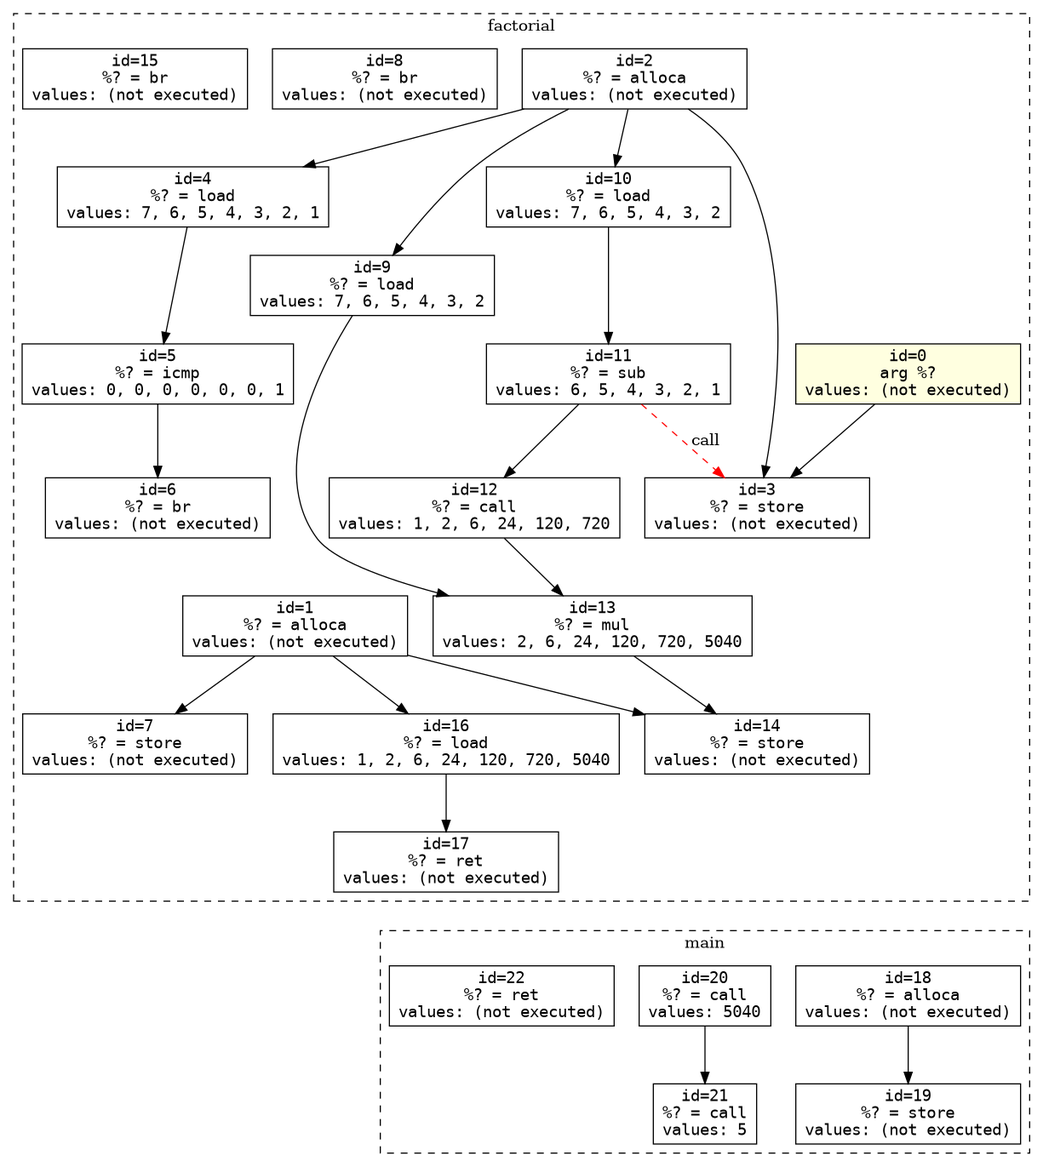
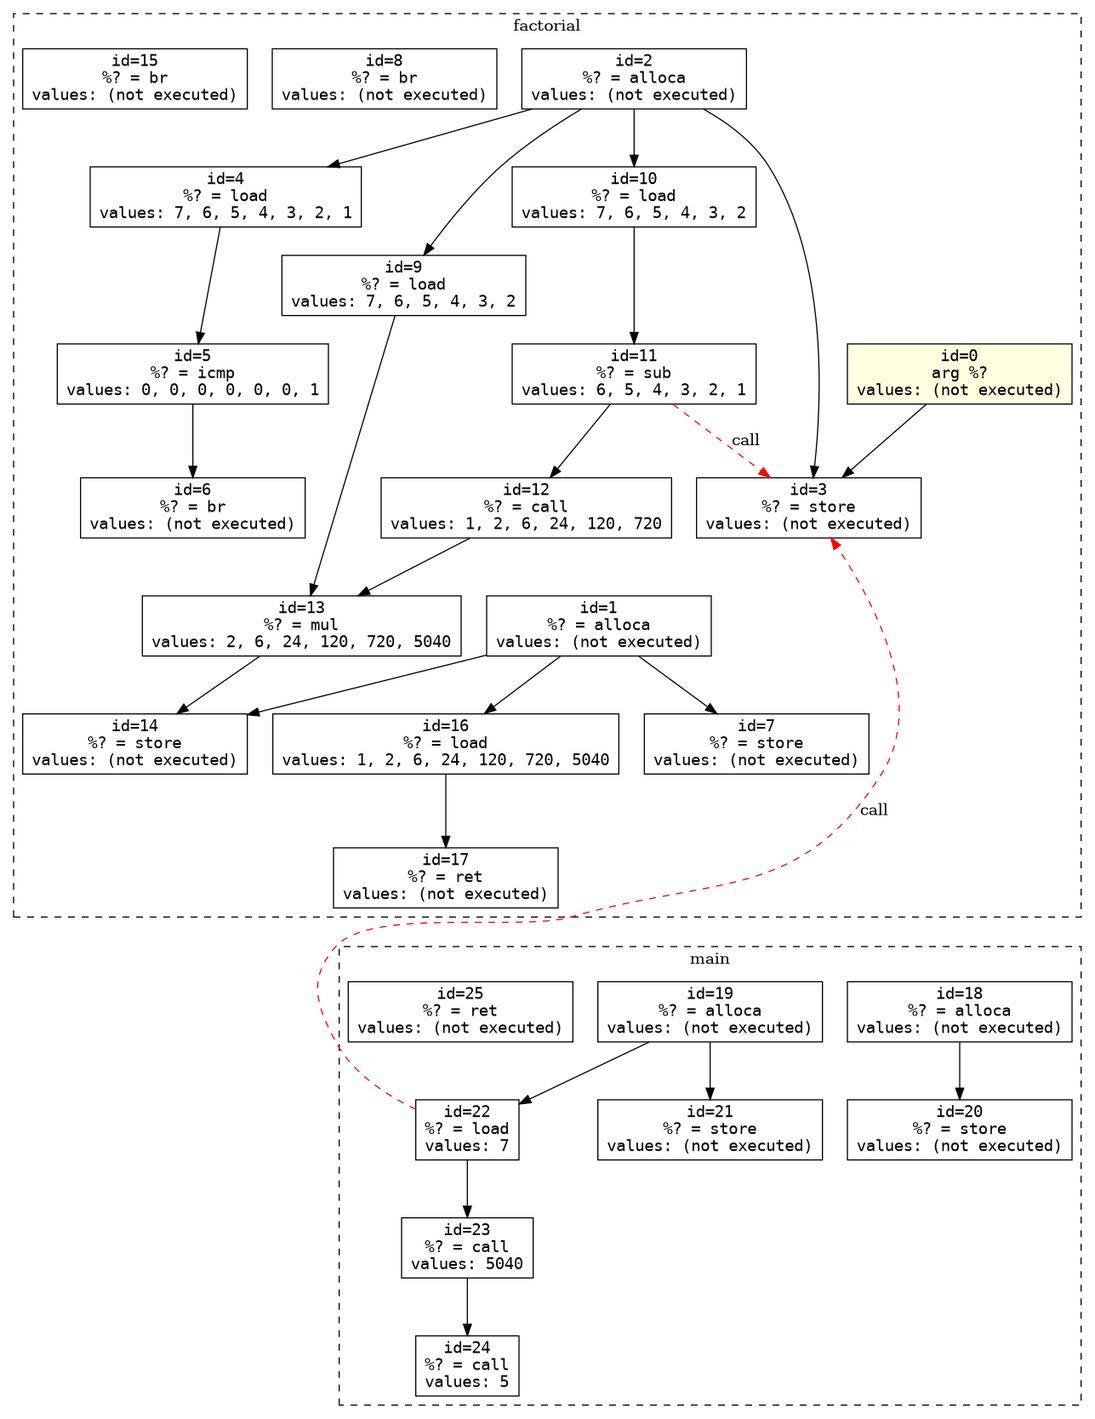
Updated readme + deleted all extra dependencies from Dockerfile

diff --git a/tests/testRecursion.c b/tests/testRecursion.c
@@ -7,6 +7,8 @@ int factorial(int n) {
 }
 
 int main(void) {
-    printf("%d\n", factorial(7));
+    int n = 7;
+    
+    printf("%d\n", factorial(n));
     return 0;
 }

diff --git a/README.md b/README.md
@@ -7,17 +7,13 @@
 
 В зависимости от того, какие данные подаются на вход программе, итоговая картина получается разной -- отражается не только сама структура, но и проход исполнения.
 
-TODO[flops]: Good detailed doc. It will be useful if you add annotated graph image there
-
-FIXME[flops]: Don't forget to add .gitignore for `build/` dir e.t.c.
-
 ## Структура
 
 ## Входная точка
 `src/MyPass.cpp` -- это точка входа LLVM-пасса. В нем: 
 
-- Определён класс `MyPass`, наследник `PassInfoMixin<MyPass>`, с методом `run(Module &M, ModuleAnalysisManager &)` -- именно его вызывает `opt` для каждого модуля.
-- Реализована функция `llvmGetPassPluginInfo()`, которую `opt` находит при загрузке `.so` через `dlsym` и через которую плагин регистрирует имя пасса `my-pass` в `PassBuilder`.
+- Определён класс `MyPass`, наследник `PassInfoMixin<MyPass>`, с методом `run(Module &M, ModuleAnalysisManager &)` -- именно его вызывает `clang` для каждого модуля.
+- Реализована функция `llvmGetPassPluginInfo()`, которую `clang` находит при загрузке `.so` и через которую плагин регистрирует имя пасса `defuse-pass` в `PassBuilder`.
 Сама логика обработки IR вынесена в три модуля: `DotWriter` (запись графа), `Instrumenter` (вставка инструментации), `ValueIds` (выдача id).
 
 ## Что делает пасс верхнеуровнево?
@@ -37,29 +33,40 @@ Module -> Function -> BasicBlock -> Instruction
 - **`Instruction`** -- все инструкции IR (`add`, `load`, `store`, `call`, `mul`, ...). Каждая инструкция в SSA-форме определяет ровно одно значение;
 - **`ConstantInt`** -- константы. Они учитываются в лейблах (если попадаются как операнды), но **узлами в графе не становятся**, чтобы не завалить значениями картинку. Только реально вычисляемые значения получают узлы.
 
+> Отстутствие отображения констант -- вопрос спорный, но если таки не добавлять их в отрисовку defuse graph, то при вызове функции можно явно инициализировать параметры вызываемой функции, тогда и стрелки между caller и callee будут.
+
 Для каждой подходящей инструкции пасс смотрит её операнды (`Instruction.operands()`). Для каждого операнда, если он `Instruction` или `Argument`, рисуется ребро `operand -> Instruction`.
+
+- Также рисуется ребро между параметрами функции и их первыми использованиями:
+
+Например, для функции foo(int a, int b):
+``` 
+[инструкция вычислившая a] -> [первое использование param_0 в foo]
+[инструкция вычислившая b] -> [первое использование param_1 в foo] 
+```
+> Именно поэтому нужны явные инструкции, вычисляющие эти самые параметры.
 
 ### Тип 2: инструментация
 
 Параллельно пасс модифицирует IR. Он:
  
-- Объявляет в модуле две внешние функции -- `__mypass_log_i32(i32, i32)` и `__mypass_log_i64(i32, i64)`. Эти функции потом подцепятся из `Runtime.c` на стадии линковки.
+- Объявляет в модуле две внешние функции -- `mypass_log_i32__(i32, i32)` и `mypass_log_i64(i32, i64)__`. Эти функции потом подцепятся из `Runtime.c` на стадии линковки.
 - Идёт по всем инструкциям и отбирает те, что подходят для инструментации.
 Подходящие -- это инструкции, которые:
-- - имеют ненулевой результат типа `i32` или `i64` (для других у нас нет log-функции);
+- - имеют ненулевой результат типа `i32` или `i64` (для других автоматически результат в формате `i64` через %X);
 - - не являются терминаторами (`ret`, `br`, `switch` -- после терминатора в блоке не вставить);
 - - не являются `PHINode` (PHI должны идти в начале блока, и вставка вызова между ними сломает IR);
 - - не принадлежат самому runtime.
-После каждой такой инструкции через `IRBuilder` вставляется `call void @__mypass_log_iXX(i32 <id>, iXX %result)`.
+После каждой такой инструкции через `IRBuilder` вставляется `call void @mypass_log_iXX__(i32 <id>, iXX %result)`.
 
 ```llvm
   %9 = load i32, ptr %3, align 4
-  call void @__mypass_log_i32(i32 12, i32 %9)
+  call void @mypass_log_i32__(i32 12, i32 %9)
 ```
 
 ## Из чего строится граф
  
-Граф пишется в `dots/graph.dot` в формате graphviz. На нём:
+Граф пишется в `artifacts/<test_name>.dot` в формате graphviz. На нём:
  
 **Узлы** -- это значения IR. Каждый узел подписан так:
  
@@ -82,7 +89,7 @@ values: 8
 
 ### Как source-код превращается в граф
  
-Возьмём наш `tests/test.c`:
+Рассмотрим на примере `tests/test.c`:
  
 ```c
 int Compute(int n, int b) {
@@ -153,23 +160,30 @@ define i32 @Compute(i32 %0, i32 %1) {
  
 ### Что происходит при запуске
  
-`Runtime.c` определяет четыре функции:
+`Runtime.c` определяет 5 функций:
  
-- `__mypass_log_init` с атрибутом `constructor` -- вызывается автоматически **до** `main`. Открывает `runtime_log.txt` на запись.
-- `__mypass_log_finish` с атрибутом `destructor` -- вызывается **после** `main` или при `exit()`. Закрывает файл.
-- `__mypass_log_i32(int id, int32_t value)` и `__mypass_log_i64(int id, int64_t value)` -- пишут в лог строку `<id> <value>`.
-Каждый раз, когда выполнение в инструментированной программе доходит до вставленной инструкции `call void @__mypass_log_i32(i32 N, i32 %X)`, в файл записывается строка `N <значение_X_в_момент_выполнения>`.
+- `mypass_log_init__` с атрибутом `constructor` -- вызывается автоматически **до** `main`. Открывает `<test>_log.txt` на запись;
+- `mypass_log_finish__` с атрибутом `destructor` -- вызывается **после** main или при exit(). Закрывает файл;
+- `mypass_log_i32__(int id, int32_t value)` и `mypass_log_i64__(int id, int64_t value)` -- пишут в лог строку `<id> <value>`;
+- `mypass_log_edge__(uint32_t from_id, uint32_t to_id)` -- пишет в лог `edge <from_id> <to_id>`.
+
+Каждый раз, когда выполнение в инструментированной программе доходит до вставленной инструкции `call void @mypass_log_i32__(i32 N, i32 %X)`, в файл записывается строка `N <значение_X_в_момент_выполнения>`.
  
-Финальный `runtime_log.txt` -- это пары `(id, value)` ровно в том порядке, в каком выполнялись инструкции.
+Финальный `<test_name>_log.txt` -- это пары `(id, value)` ровно в том порядке, в каком выполнялись инструкции.
 
 ### Как накладываются значения на граф
  
 `scripts/Annotate.py` делает три вещи:
- 
-1. Читает `runtime_log.txt`, группирует значения по id: для каждого id строит список значений в порядке появления (`defaultdict(list)`).
-2. Читает `graph.dot` построчно. Для строк вида `n<id> [label="id=<id>\n..."]` вытаскивает id и дописывает к лейблу строку `values: v1, v2, v3 ... (+N more)`.
-3. Пишет результат в `graph_annotated.dot`.
-В лейбле отображаются первые `SHOW_FIRST_N = 3` значения. Если их больше -- добавляется хвост `... (+X more)`. Если id ни разу не появился в логе -- узел получает пометку `values: (not executed)` (например, для инструкций в недостижимых ветках).
+
+1. Читает `<test_name>_log.txt` (путь берётся из переменной окружения `MYPASS_LOG_FILE`), парсит 2 категории строк:
+   - `<id> <value>` -- значение узла, группирует по id в `defaultdict(list)`;
+   - `edge <from_id> <to_id>` -- рёбра вызовов, собирает в список.
+
+2. Читает `graph.dot` через `pygraphviz`. Для каждого узла вида `n<id>` дописывает к лейблу строку `values: v1, v2, v3 ...`. Если id не встречался в логе -- узел получает пометку `values: (not executed)`.
+
+3. Добавляет в граф рёбра из лога (красные пунктирные, `label="call"`), пропуская дубликаты и рёбра с несуществующими узлами.
+
+4. Пишет результат в `<test_name>_annotated.dot` и создает `images/<test_name>_annotated.png` через `dot`.
  
 ### Что если одна и та же переменная присваивается несколько раз
  
@@ -213,88 +227,89 @@ id=...
 values: 7, 14, 21 ...
 ```
 
+В итоге для, например, функции подсчета факториала:
+```C
+int factorial(int n) {
+    if (n <= 1) return 1;
+
+    return n * factorial(n - 1);
+}
+
+int main(void) {
+    printf("%d\n", factorial(7));
+    return 0;
+}
+```
+
+Получаем вот такой граф:
+![defuse-graph](/images/testRecursion_annotated_with_no_initialization.png)
+
+Если же мы вызовем функцию не от константы, а от переменной:
+```C
+int factorial(int n) {
+    if (n <= 1) return 1;
+
+    return n * factorial(n - 1);
+}
+
+int main(void) {
+    int n = 7;
+    printf("%d\n", factorial(n));
+    return 0;
+}
+```
+То получим уже вот такой граф:
+![defuse-graph](/images/testRecursion_annotated.png)
+
 ## Как запустить
  
 ### Linux
 
-Тестировалось на Ubuntu 24.04 с LLVM 19 из официального репозитория `apt.llvm.org`. На других дистрибутивах команды установки пакетов будут отличаться, но шаги те же.
+Тестировалось на Ubuntu 24.04 с LLVM 19. На других дистрибутивах команды установки пакетов будут отличаться, но шаги те же.
 
 #### 1. Установить базовые инструменты
 
 ```bash
-sudo apt-get update
-sudo apt-get install -y \
-    wget gnupg ca-certificates \
-    cmake ninja-build git \
-    graphviz python3
+apt-get update
+apt-get install -y                   \
+    wget gnupg cmake ninja-build git \
+    libgraphviz-dev graphviz python3 \
+    lsb-release                      \
+    software-properties-common
 ```
 
-#### 2. Установить LLVM 19 из apt.llvm.org
-
-В стандартных репозиториях Ubuntu LLVM часто старый или собран без нужных нам компонентов. Поэтому у меня получилось запустить, только подключив версию из официального репозитория:
+#### 2. Установить LLVM 19
 
 ```bash
-sudo mkdir -p /etc/apt/keyrings
-wget -qO- https://apt.llvm.org/llvm-snapshot.gpg.key | \
-    sudo tee /etc/apt/keyrings/llvm.asc > /dev/null
-
-echo "deb [signed-by=/etc/apt/keyrings/llvm.asc] http://apt.llvm.org/noble/ llvm-toolchain-noble-19 main" | \
-    sudo tee /etc/apt/sources.list.d/llvm.list
-
-sudo apt-get update
-sudo apt-get install -y clang-19 llvm-19-dev
+wget https://apt.llvm.org/llvm.sh && \
+    chmod +x llvm.sh &&              \
+    ./llvm.sh 19 all &&              \
+    rm llvm.sh
 ```
-
-`noble` в URL — это кодовое имя Ubuntu 24.04. Для других версий поменяй:
-- Ubuntu 22.04 -> `jammy`
-- Ubuntu 20.04 -> `focal`
-- Debian 12 -> `bookworm`
 
 #### 3. Создать удобные симлинки (опционально, но рекомендуется)
 
-`run.sh` зовёт `clang`, `clang++`, `opt` без суффикса версии. Делаем симлинки:
+Делаем симлинки в случае непредвиденных ошибок:
 
 ```bash
-sudo ln -sf /usr/bin/clang-19   /usr/bin/clang
-sudo ln -sf /usr/bin/clang++-19 /usr/bin/clang++
-sudo ln -sf /usr/bin/opt-19     /usr/bin/opt
+ln -s /usr/bin/clang-19    /usr/bin/clang
+ln -s /usr/bin/clang++-19  /usr/bin/clang++
 ```
 
-Если не хочется трогать системные пути — можно вместо этого экспортировать `PATH` или поправить команды в `run.sh`.
+Если не хочется трогать системные пути -> можно вместо этого экспортировать `PATH` или поправить команды в `run.sh`.
 
 #### 4. Собрать плагин
 
 ```bash
-cmake -G Ninja \
-    -DCMAKE_C_COMPILER=/usr/bin/clang-19 \
-    -DCMAKE_CXX_COMPILER=/usr/bin/clang++-19 \
-    -DLLVM_DIR=/usr/lib/llvm-19/lib/cmake/llvm \
-    -B build
-cmake --build build
+./scripts/build.sh
 ```
 
-После сборки `build/lib/libMyPass.so` должен существовать:
+#### *Компиляция и LTO
 
-```bash
-ls build/lib/
-```
+Все исходники компилируются через обёртку [scripts/mypass-clang.sh](/scripts/mypass-clang.sh).
 
-### MacOS
-
-```bash
-brew install llvm graphviz cmake ninja
-export PATH="$(brew --prefix llvm)/bin:$PATH"
- 
-# собрать плагин
-mkdir -p build && cd build
-cmake -G Ninja \
-  -DCMAKE_C_COMPILER=$(brew --prefix llvm)/bin/clang \
-  -DCMAKE_CXX_COMPILER=$(brew --prefix llvm)/bin/clang++ \
-  -DLLVM_DIR=$(brew --prefix llvm)/lib/cmake/llvm \
-  ..
-ninja
-cd ..
-```
+Для одиночного `.c` файла LTO ничего не меняет по смыслу, пасс 
+отрабатывает так же, как без него.
 
 #### 5. Запустить
 
@@ -302,12 +317,43 @@ cd ..
 ./scripts/run.sh
 ```
 
-После прогона картинки появятся в `images/`, граф и логи в `dots/`.
+## Как работает run и как в нем обрабатываются source-файлы и папки?
+
+### Без аргументов (`./run.sh`)
+- Обрабатывает **каждый `.c` файл** в папке `tests/` как отдельный модуль;
+- Имя модуля = имя файла (расширение отбрасывается)
+
+### С аргументами (`./run.sh <args>`)
+
+| Тип аргумента | Что делает? | Пример |
+|---|---|---|
+| **Файл `.c`** | Обрабатывает этот файл как отдельный модуль | `./run.sh tests/main.c` -> модуль `main` |
+| **Папка** | Обрабатывает **все `.c` файлы** внутри папки как **один модуль** (объединяет их) | `./run.sh tests/mymodule/` -> модуль `mymodule` из всех `.c` в папке |
+| **Другое** | Ошибка | `./run.sh nonexistent` -> `:(` |
+
+### Примеры вызовов
+
+```bash
+# Запуск без аргументов: обработать все тесты по отдельности
+./run.sh
+
+# Запуск с 1 файлом
+./run.sh tests/main.c
+
+# Запуск с папкой (все .c файлы в папке объединяются в 1 модуль)
+./run.sh module_tests
+
+# Запуск с несколькими аргументами
+./run.sh tests/foo.c tests/main.c
+```
+
+## В итоге
+После прогона картинки появятся в `images/`, граф и логи в `artifacts/`.
  
 После прогона `./scripts/run.sh`:
-- `dots/graph.dot` -- структура графа
-- `dots/mapping.txt` -- таблица id <-> инструкция
-- `dots/runtime_log.txt` -- лог значений
-- `dots/graph_annotated.dot` -- граф с наложенными значениями
-- `images/graph.png` -- структура
-- `images/graph_annotated.png` -- финальная картинка
+- `artifacts/<test_name>.dot` -- структура графа
+- `artifacts/<test_name>_mapping.txt` -- таблица id <-> инструкция
+- `artifacts/<test_name>_log.txt` -- лог значений
+- `artifacts/<test_name>_annotated.dot` -- граф с наложенными значениями
+
+- `images/<test_name>_annotated.png` -- финальная картинка
